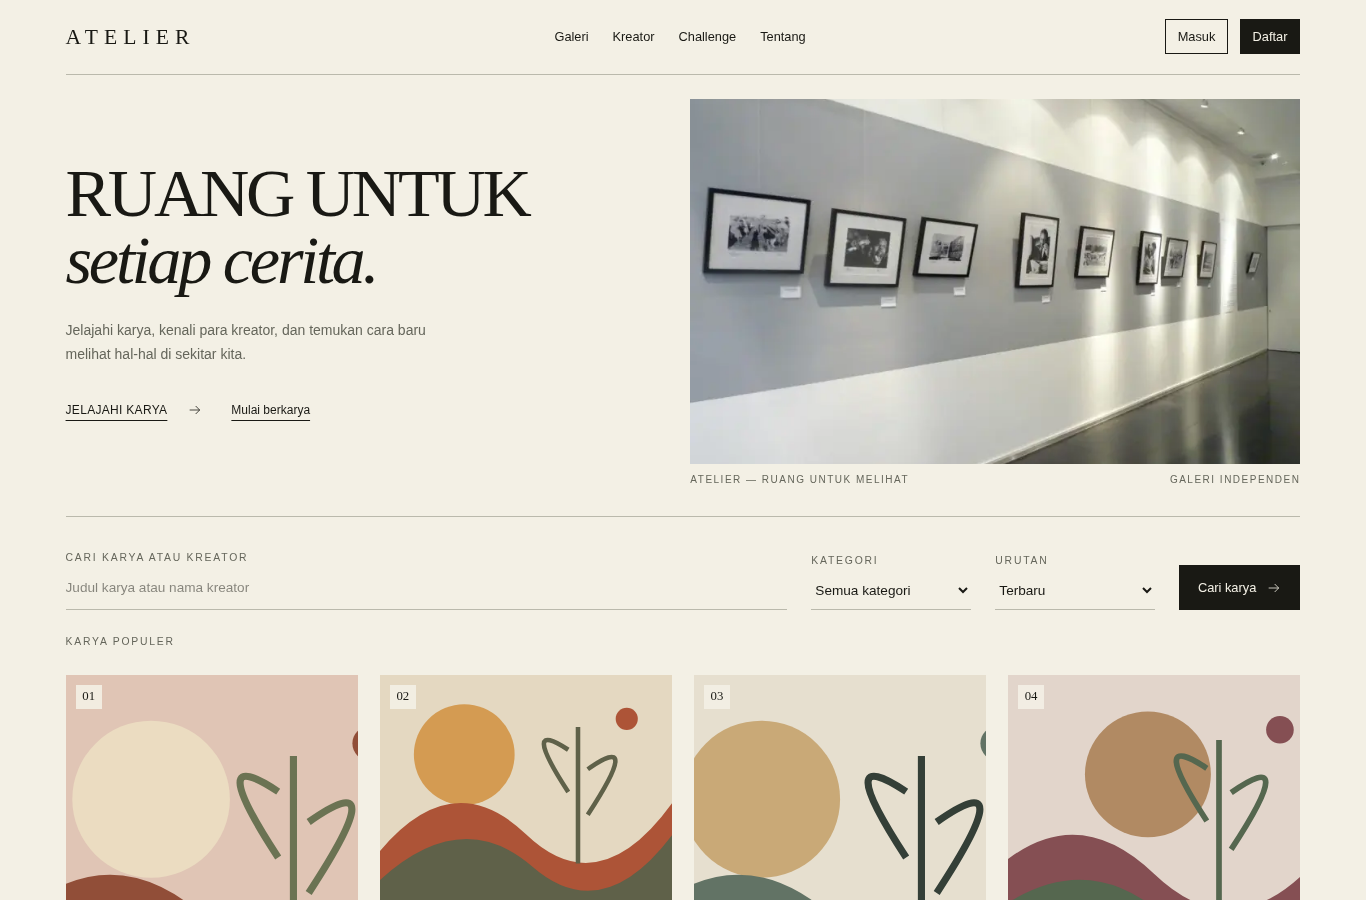
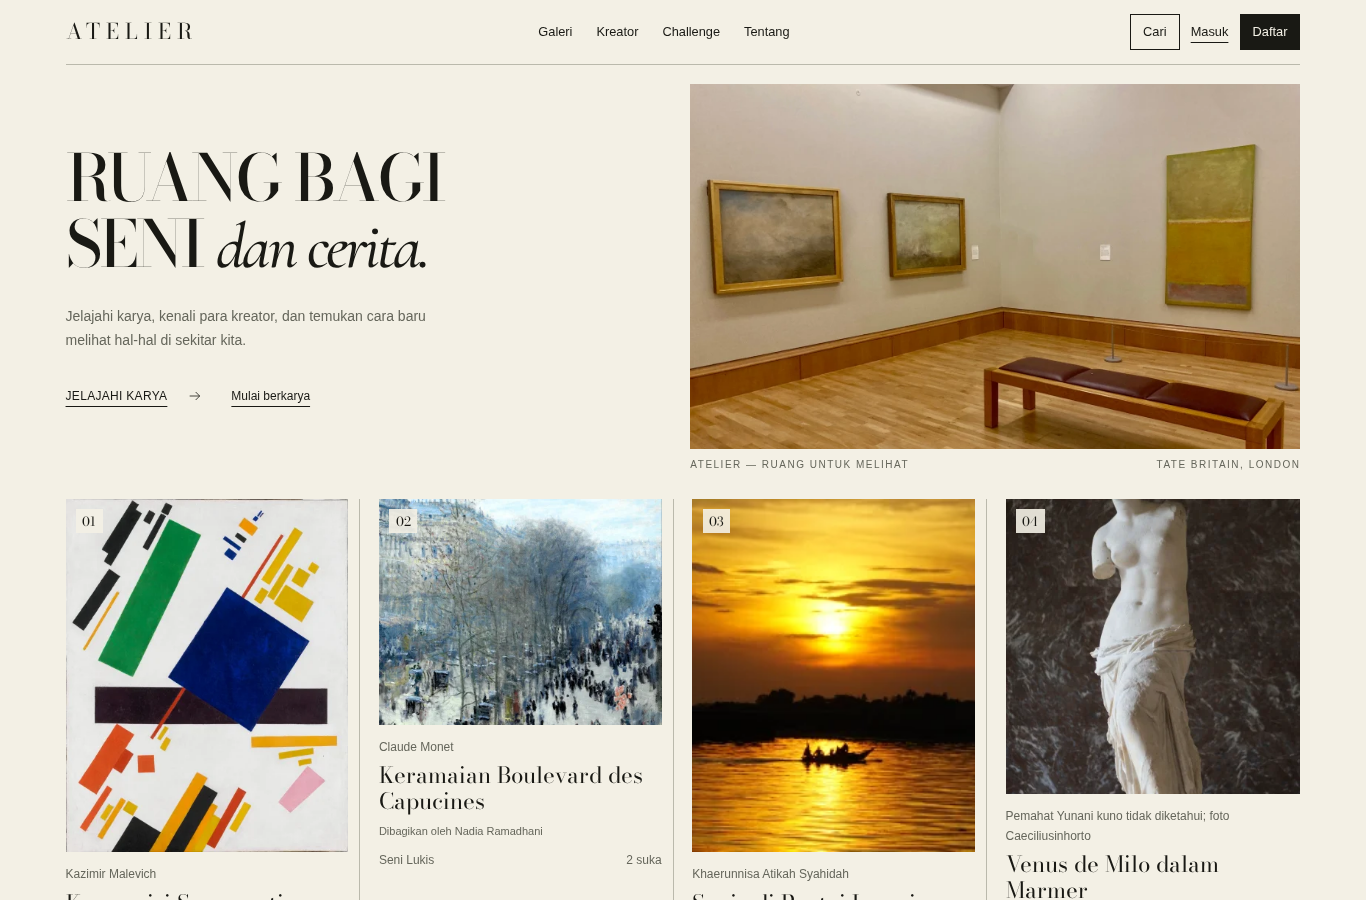
Catat sumber aset, pembaruan lokal, dan verifikasi galeri HD

diff --git a/docs/aset-visual.md b/docs/aset-visual.md
@@ -1,23 +1,44 @@
 # Aset visual Atelier
 
-## Foto pembuka beranda
+Diperbarui 18 November 2026 WITA. Foto dan reproduksi contoh disimpan lokal agar halaman tidak bergantung pada layanan gambar eksternal.
 
-- File lokal: public/images/atelier-gallery.webp.
-- Judul sumber: Sibisi Gallery Interior.
-- Pembuat foto pada Wikimedia Commons: Hibrahubria.
-- Tanggal foto pada metadata sumber: 18 Oktober 2012.
-- Sumber: https://commons.wikimedia.org/wiki/File:Sibisi_Gallery_Interior.webp.
-- Berkas sumber: https://upload.wikimedia.org/wikipedia/commons/7/71/Sibisi_Gallery_Interior.webp.
-- Lisensi yang tercantum pada halaman sumber: Creative Commons Zero (CC0 1.0).
-- Ketentuan lisensi: https://creativecommons.org/publicdomain/zero/1.0/.
-- Metadata sumber diperiksa melalui API Wikimedia Commons pada 18 November 2026 WITA.
+## Foto pembuka
 
-Foto dipakai untuk memperkenalkan suasana galeri pada beranda. Deretan bingkai hitam, dinding netral, dan pencahayaan lembut dipilih agar selaras dengan tampilan krem dan hitam Atelier.
+Foto baru memperlihatkan ruang Tate Britain, dua lukisan berbingkai emas, dan kanvas Rothko berwarna oker. File public/images/atelier-gallery-hd.webp berukuran 2400 × 1600 piksel, berasal dari foto asli 4032 × 3024 piksel. Sumber dan lisensi foto CC0 tercatat di [hero-hd-source.md](hero-hd-source.md). Kredit foto: Jp1008 / Wikimedia Commons.
 
-Versi lokal dipotong dari rasio 4:3 menjadi 3:2, diproses pada ukuran 1200 × 800 piksel, dikompresi ke WebP, dan dibersihkan dari metadata foto. Aplikasi memuat berkas lokal ini sehingga tampilan tidak bergantung pada koneksi ke situs sumber.
+Foto dikompresi ke WebP kualitas 90 dan dipotong ke rasio 3:2 tanpa memperbesar sumber. Beranda memakai next/image dengan kualitas 90 dan ukuran responsif. Foto Sibisi yang dipakai versi sebelumnya tidak lagi menjadi pembuka.
 
-Kredit singkat yang dapat dicantumkan: “Foto galeri: Hibrahubria / Wikimedia Commons, CC0.” CC0 tidak mensyaratkan atribusi; sumber tetap dicatat agar asal gambar mudah ditelusuri.
+## Enam karya contoh
 
-## Karya contoh
+| Judul pada aplikasi | Kategori | Pembuat asli/fotografer | Lisensi | Resolusi lokal | Asal |
+| --- | --- | --- | --- | --- | --- |
+| Keramaian Boulevard des Capucines | Seni Lukis | Claude Monet | [Public domain](https://creativecommons.org/publicdomain/mark/1.0/) | 1631 × 2200 | [Sumber](https://commons.wikimedia.org/wiki/File:Claude_Monet_-_Boulevard_des_Capucines_-_Google_Art_Project.jpg) |
+| Senja di Pantai Losari | Fotografi | Khaerunnisa Atikah Syahidah | [CC BY-SA 4.0](https://creativecommons.org/licenses/by-sa/4.0) | 2200 × 1467 | [Sumber](https://commons.wikimedia.org/wiki/File:Keindahan_sunset_di_pantai_losari.jpg) |
+| Komposisi Suprematis | Seni Lukis | Kazimir Malevich | [Public domain](https://creativecommons.org/publicdomain/mark/1.0/) | 1761 × 2200 | [Sumber](https://commons.wikimedia.org/wiki/File:Suprematist_Composition_-_Kazimir_Malevich.jpg) |
+| Jembatan di Atas Kolam Teratai | Seni Lukis | Claude Monet | [Public domain](https://creativecommons.org/publicdomain/mark/1.0/) | 1759 × 2200 | [Sumber](https://commons.wikimedia.org/wiki/File:The_Water-Lily_Pond_1899_Claude_Monet_Metropolitan.jpg) |
+| Gelombang Besar di Kanagawa | Cetak Grafis | Katsushika Hokusai | [Public domain](https://creativecommons.org/publicdomain/mark/1.0/) | 2200 × 1505 | [Sumber](https://commons.wikimedia.org/wiki/File:Great_Wave_off_Kanagawa2.jpg) |
+| Venus de Milo dalam Marmer | Seni Patung | Pemahat Yunani kuno tidak diketahui; foto Caeciliusinhorto | [CC BY-SA 4.0](https://creativecommons.org/licenses/by-sa/4.0) | 1238 × 2200 | [Sumber](https://commons.wikimedia.org/wiki/File:Venus_de_Milo_front_2023.jpg) |
 
-Ilustrasi pada public/examples tetap menjadi karya contoh yang sudah dipakai seed. Judul, pemilik, kategori, dan jalur berkasnya mengikuti database. Foto pembuka beranda terpisah dari data portofolio anggota.
+Gambar berasal dari sumber beresolusi asli antara 2296 × 2869 dan 8242 × 5640 piksel. Semuanya diperkecil ke panjang maksimal 2200 piksel dan dikompresi sebagai WebP kualitas 88. Komposisi sumber dipertahankan; detail gambar dapat dibuka melalui tautan ukuran penuh. Ukuran berkas berkisar 182 KB sampai 1,55 MB, menyesuaikan detail teksturnya. next/image mengirim pratinjau sesuai ukuran layar, sehingga kartu tidak perlu memuat berkas ukuran penuh.
+
+Data contoh merupakan koleksi referensi seni yang dibagikan akun demonstrasi. Pembuat asli, sumber, lisensi, dan keterangan reproduksi tampil pada halaman detail. Dua foto berlisensi CC BY-SA 4.0 tetap mengikuti lisensi tersebut setelah perubahan ukuran/format; empat reproduksi lukisan/cetak merupakan domain publik. Rekaman metadata lengkap tersedia di public/examples/hd/credits.json.
+
+Judul dan kategori mengikuti isi gambar: boulevard Paris menjadi Seni Lukis, foto Losari menjadi Fotografi, Venus menjadi Seni Patung, dan Hokusai menjadi Cetak Grafis. Tags ikut diperbarui. Banner Warna Kota Kita memakai lukisan kota; Bentuk yang Bercerita memakai komposisi geometris; Hijau di Sekitar Kita memakai taman teratai.
+
+## Font
+
+Huruf tegak memakai Bodoni Moda dan aksen miring memakai Cormorant Garamond Italic. Berkas WOFF2 dan lisensi SIL OFL 1.1 disertakan di public/fonts. Keduanya dimuat melalui next/font/local. Sumber dan varian dicatat di [font-sources.md](font-sources.md).
+
+## Database yang sudah berisi data
+
+Jalankan npm run db:demo dari PowerShell setelah git pull dan npm ci. Skrip menjalankan database/migrations/003-demo-gallery.sql sebagai satu transaksi. Alternatif pgAdmin: buka berkas migrasi melalui ikon folder Query Tool, lalu F5. Akun database harus memiliki hak pemilik tabel, seperti postgres pada konfigurasi praktikum.
+
+Migrasi menargetkan enam baris contoh dengan kecocokan ID, email akun contoh, judul lama, jalur SVG lama, dan tipe media. Karya yang berada di public/uploads, judul yang sudah diganti, serta karya milik akun lain dilewati. Banner hanya diperbarui jika akun Curator, judul, dan jalur contohnya cocok. Akun, suka, komentar, favorit, laporan, submisi, dan pemenang dipertahankan.
+
+Selama pembaruan, transaksi mengunci tabel karya dan menonaktifkan sementara trigger larangan mengganti file. Trigger diaktifkan kembali sebelum COMMIT. Jika ada kesalahan, ROLLBACK memulihkan data dan keadaan trigger. Aplikasi tetap memakai aturan file tidak dapat diganti pada edit karya biasa. Menjalankan migrasi kembali menghasilkan nol pembaruan untuk baris yang sudah diproses.
+
+Untuk instalasi kosong, jalankan schema.sql lalu seed.sql terbaru. Tidak perlu membuat ulang database yang sudah berisi akunmu. Hasil dapat diperiksa dengan database/check-demo-gallery.sql; trigger harus berstatus O (enabled).
+
+## Pengujian
+
+npm run demo:test membuat database uji terpisah, menjalankan schema/seed dua kali, menguji migrasi lama, pengulangan, perlindungan data khusus, serta rollback dan trigger. Database uji dibersihkan setelah selesai. Pengujian ini memerlukan hak CREATEDB pada akun pengembangan.

diff --git a/docs/tampilan-atelier.md b/docs/tampilan-atelier.md
@@ -1,6 +1,6 @@
 # Tampilan Atelier
 
-Desain diperbarui pada 18 November 2026 WITA berdasarkan referensi galeri editorial yang dipilih pengguna. Nama tampilan menjadi Atelier, sedangkan teks antarmuka tetap bahasa Indonesia.
+Desain diperbarui pada 18 November 2026 WITA berdasarkan referensi galeri editorial yang dipilih pengguna. Nama tampilan menjadi Atelier, sedangkan teks antarmuka tetap bahasa Indonesia. Revisi berikutnya memperjelas perpaduan font tegak/miring serta mengganti foto pembuka dan seluruh karya contoh dengan gambar HD yang sesuai judul/kategorinya.
 
 ## Keputusan desain
 
@@ -8,7 +8,7 @@ Latar krem, teks hitam, judul serif, garis tipis, dan bidang persegi memberi rua
 
 Galeri memakai empat kolom pada layar besar dan dua kolom pada layar kecil. Tinggi pratinjau dibuat bervariasi agar susunannya terasa seperti ruang pamer. Halaman detail tetap menampilkan gambar karya secara utuh. Pada HP, bagian pembuka beranda menjadi satu kolom dan pengantar samping login disembunyikan supaya form mudah ditemukan.
 
-Navigasi utama menyediakan Galeri, Kreator, Challenge, dan Tentang. Logo Atelier selalu menuju beranda. Menu akun mengarah ke dashboard sesuai peran/status dan menyediakan tombol keluar. Dashboard, form, halaman detail, loading, error, dan 404 mengikuti gaya yang sama. Merah dipakai untuk pesan error atau tindakan penghapusan.
+Navigasi utama menyediakan Galeri, Kreator, Challenge, dan Tentang. Logo Atelier selalu menuju beranda. Tombol Cari membuka pencarian dan filter pada beranda; hasil pencarian mempertahankan field serta pilihannya. Menu akun mengarah ke dashboard sesuai peran/status dan menyediakan tombol keluar. Dashboard, form, halaman detail, loading, error, dan 404 mengikuti gaya yang sama. Merah dipakai untuk pesan error atau tindakan penghapusan.
 
 ## File utama
 
@@ -22,18 +22,21 @@ Navigasi utama menyediakan Galeri, Kreator, Challenge, dan Tentang. Logo Atelier
 | components/dashboard-nav.js | Menu dashboard serta penanda halaman aktif |
 | components/*form*.js dan components/admin/forms.js | Tampilan field, validasi, tombol, dan status pengiriman |
 | app/(auth), app/dashboard, app/artworks, app/creators, app/challenges | Halaman yang menggunakan komponen bersama |
-| public/images/atelier-gallery.webp | Foto pembuka lokal |
+| public/images/atelier-gallery-hd.webp | Foto pembuka lokal 2400 × 1600 piksel |
+| public/fonts/ | Bodoni Moda, Cormorant Garamond Italic, dan lisensinya |
+| public/examples/hd/ | Enam karya referensi 2200 piksel dan metadata sumber |
+| database/migrations/003-demo-gallery.sql | Pembaruan gambar/metadata contoh pada database lama |
 | docs/aset-visual.md | Sumber, lisensi, dan pengolahan foto |
 
 ## Mengganti tema dan gambar
 
 Warna utama ada pada :root di app/globals.css: --paper untuk latar, --ink untuk teks utama, --muted untuk teks pendamping, dan --line untuk garis. Kelas seperti button-primary, field-input, dan panel membuat form di berbagai peran tetap konsisten. Tailwind dipakai untuk susunan, jarak, ukuran layar, serta variasi komponen. @theme menyelaraskan font dan warna stone dengan palet situs.
 
-Font memakai keluarga sistem agar build dan tampilan tidak bergantung pada pengunduhan font. Link memiliki warna eksplisit. :focus-visible memberi penanda pengguna keyboard, dan prefers-reduced-motion mengurangi animasi bagi pengguna yang membutuhkannya.
+Font judul memakai Bodoni Moda dan aksen miring memakai Cormorant Garamond Italic. Keduanya dimuat lokal melalui next/font/local dan dipakai dalam baris judul yang sama agar perbedaannya terlihat. Font body memakai Arial/sans-serif sistem. Link memiliki warna eksplisit. :focus-visible memberi penanda pengguna keyboard, dan prefers-reduced-motion mengurangi animasi bagi pengguna yang membutuhkannya.
 
 Foto pembuka terpisah dari portofolio pengguna. Untuk menggantinya, sediakan gambar lokal yang boleh dipakai, optimalkan ke WebP, sesuaikan src serta alt di app/page.js, lalu catat sumbernya. File karya pengguna tetap dikelola melalui alur upload yang memvalidasi format, ukuran, dan isi gambar. Mengganti hero tidak mengubah file karya dalam database.
 
-Nama repository, database art_showcase, cookie sesi, issuer JWT, serta email/password akun contoh dipertahankan. Perubahan nama antarmuka tidak perlu mencabut sesi yang sah atau membuat ulang data. Tidak ada perubahan skema maupun migrasi pada tahap tampilan ini.
+Nama repository, database art_showcase, cookie sesi, issuer JWT, serta email/password akun contoh dipertahankan. Perubahan nama antarmuka tidak perlu mencabut sesi yang sah atau membuat ulang data. Struktur tabel tetap; revisi gambar menyertakan migrasi data contoh yang dijalankan dengan npm run db:demo.
 
 ## Mengecek di Windows
 
@@ -42,16 +45,17 @@ Hentikan server lama dengan Ctrl+C, kemudian jalankan di PowerShell dari folder 
 ```powershell
 git pull --ff-only
 npm ci
+npm run db:demo
 npm run lint
 npm run build
 npm run dev
 ```
 
 1. Buka http://localhost:3000. Periksa logo Atelier, foto galeri, karya populer/terbaru, sorotan, kreator, serta challenge.
-2. Coba mencari judul karya atau kreator, memilih kategori, dan mengubah urutan. Buka detail karya, profil, serta challenge.
+2. Klik Cari pada header, lalu cari judul karya atau kreator, pilih kategori, dan ubah urutan. Buka detail karya, profil, serta challenge.
 3. Masuk sebagai Member, Admin, dan Curator untuk memeriksa menu serta form masing-masing. Coba juga Curator Pending/Rejected.
 4. Pada DevTools browser, periksa lebar 320, 390, 768, 1024, dan 1366 piksel. Navigasi harus dapat digunakan, tulisan terbaca, dan halaman tidak bergeser ke samping.
-5. Di pgAdmin, buka database/queries/platform.sql serta database/check-auth.sql melalui ikon folder Query Tool. Perubahan desain tidak membutuhkan schema atau seed ulang.
+5. Di pgAdmin, buka database/check-demo-gallery.sql melalui ikon folder Query Tool. Terlihat enam contoh HD, banner yang sesuai tema, serta trigger berstatus O. Database lama memakai migrasi data contoh; schema atau seed tidak perlu dijalankan ulang.
 
 ## Empat hal untuk dipahami
 

diff --git a/README.md b/README.md
@@ -4,7 +4,20 @@ Proyek final Praktikum Pemrograman Web 2026, Sistem Informasi Universitas Hasanu
 
 Tahap saat ini: **Hari 9 — pengujian dan polesan selesai**. Fitur wajib sampai pemilihan pemenang sudah tersedia. Tahap ini mencakup pengujian sesi/permintaan paralel, pembaruan dependency, pemulihan halaman error, serta desain Atelier dengan gaya galeri editorial. Finalisasi dokumentasi/presentasi dilakukan pada Hari 10.
 
-Nama antarmuka berubah dari Ruang Karya menjadi Atelier. Nama folder repository, database, cookie sesi, dan akun contoh tetap dipakai agar instalasi serta data yang sudah ada terus bekerja. Panduan tema, komponen, dan gambar tersedia di [docs/tampilan-atelier.md](docs/tampilan-atelier.md); sumber foto berlisensi CC0 dicatat di [docs/aset-visual.md](docs/aset-visual.md).
+Nama antarmuka berubah dari Ruang Karya menjadi Atelier. Nama folder repository, database, cookie sesi, dan akun contoh tetap dipakai agar instalasi serta data yang sudah ada terus bekerja. Panduan tema, komponen, dan gambar tersedia di [docs/tampilan-atelier.md](docs/tampilan-atelier.md); sumber foto, karya referensi, serta lisensinya dicatat di [docs/aset-visual.md](docs/aset-visual.md).
+
+Revisi tampilan memakai Bodoni Moda dan Cormorant Garamond Italic, foto galeri 2400 × 1600 piksel, serta enam karya contoh dengan panjang maksimal 2200 piksel. Judul, kategori, tags, dan banner mengikuti gambar yang dipakai. Tombol Cari di header membuka pencarian dan filter.
+
+Untuk memperbarui instalasi yang sudah berjalan, hentikan server dengan Ctrl+C lalu jalankan dari folder proyek di PowerShell:
+
+```powershell
+git pull --ff-only
+npm ci
+npm run db:demo
+npm run dev
+```
+
+db:demo menjalankan migrasi data contoh dalam satu transaksi, mempertahankan karya unggahan serta akun yang sudah ada, dan aman dijalankan ulang. Alternatif pgAdmin: buka database/migrations/003-demo-gallery.sql lalu F5. Jangan menjalankan ulang seed untuk mengganti gambar pada database lama.
 
 ![Pratinjau beranda Atelier di layar laptop](docs/images/atelier-desktop.png)
 
@@ -47,7 +60,7 @@ Pada Query Tool pgAdmin untuk art_showcase, jalankan **database/migrations/002-a
 
 ## Database di pgAdmin
 
-Hari 3–9 tidak menambah tabel atau mengubah skema. Jika database Hari 2 sudah berjalan, cukup perbarui kode; migrasi SQL tambahan tidak diperlukan.
+Hari 3–9 tidak menambah tabel atau mengubah struktur tabel. Revisi gambar menambah migrasi data contoh 003-demo-gallery.sql. Jika database Hari 2 sudah berjalan, perbarui kode lalu jalankan npm run db:demo.
 
 1. Buka server PostgreSQL lokal dan login.
 2. Klik kanan Databases > Create > Database. Nama: art_showcase.
@@ -85,7 +98,7 @@ Semua akun demo memakai password **RuangKarya2026!**, disimpan sebagai hash bcry
 | Curator pending | pending@ruangkarya.test |
 | Curator rejected | rejected@ruangkarya.test |
 
-Data dan identitas contoh bersifat fiktif. Enam SVG merupakan ilustrasi abstrak lokal untuk pengujian, bukan karya portofolio sungguhan. SVG contoh berada di public/examples; ini bukan izin menerima SVG dari unggahan pengguna. Validasi unggahan dibuat Hari 4.
+Identitas akun contoh bersifat fiktif. Enam karya referensi HD berada di public/examples/hd, dengan pembuat asli dan lisensi ditampilkan pada detail serta dicatat di docs/aset-visual.md. Data contoh menyediakan kategori Seni Lukis, Seni Patung, Cetak Grafis, dan Fotografi yang sesuai isi gambar. Unggahan pengguna menerima JPEG/PNG/WebP statis melalui validasi backend.
 
 ## Struktur
 
@@ -140,7 +153,7 @@ npm run dev
 
 npm test menjalankan pengujian token, keamanan sesi, database, autentikasi, Admin, karya, interaksi, moderasi, challenge, dan pemenang. Pengujian memerlukan database pengembangan yang sudah memiliki schema dan seed, membuat data sementara, lalu membersihkannya. Pemeriksaan berhenti ketika satu rangkaian gagal. Untuk hanya menguji perbaikan masa berlaku sesi, gunakan npm run security:test.
 
-Tahap ini tidak memerlukan migrasi atau seed ulang. Di pgAdmin, buka database/check-auth.sql melalui ikon folder Query Tool lalu tekan F5 untuk melihat status akun dan jumlah sesi aktif tanpa menampilkan token atau hash password. Ketika database tidak tersedia, halaman error menyediakan tombol coba lagi yang meminta ulang halaman dari server setelah koneksi pulih.
+Pengujian backend memakai data yang sudah tersedia. Untuk revisi gambar HD, jalankan npm run db:demo sekali; seed ulang tidak diperlukan. Di pgAdmin, buka database/check-auth.sql melalui ikon folder Query Tool lalu tekan F5 untuk melihat status akun dan jumlah sesi aktif tanpa menampilkan token atau hash password. Ketika database tidak tersedia, halaman error menyediakan tombol coba lagi yang meminta ulang halaman dari server setelah koneksi pulih.
 
 ## Mencoba pengumuman pemenang
 

diff --git a/docs/verifikasi-hari-9.md b/docs/verifikasi-hari-9.md
@@ -61,15 +61,25 @@ Pengujian ulang alur browser setelah perubahan desain:
 | Challenge | Lulus: CRUD, zona waktu, role/status, submit/withdraw/deadline, banner, dan paginasi |
 | Pemenang | Lulus: maksimal tiga, kandidat/rank unik, konflik dua tab, pengumuman, featured, submisi privat, dan dampak take down |
 
+## Revisi tipografi dan gambar HD
+
+Revisi lanjutan pada 18 November 2026 WITA memakai Bodoni Moda tegak dan Cormorant Garamond Italic pada baris judul yang sama. Font WOFF2 dilayani lokal dengan lisensi SIL OFL. Foto pembuka diganti versi 2400 × 1600 dari sumber asli 4032 × 3024 piksel. Enam karya referensi memakai WebP dengan panjang maksimal 2200 piksel; judul, kategori, tags, pembuat asli, serta banner mengikuti isi gambar.
+
+npm run demo:test lulus pada database uji terpisah: schema/seed dapat dijalankan dua kali, enam contoh lama berpindah ke gambar baru, pengulangan migrasi tidak mengubah data lagi, serta kategori khusus, judul yang disunting, jalur uploads, pemilik lain, dan banner pribadi dipertahankan. Akun dan relasi interaksi/submisi/pemenang tidak berubah. Kesalahan SQL membatalkan semua perubahan; trigger larangan mengganti file tetap aktif setelah sukses dan rollback.
+
+Pembaruan database pengembangan menghasilkan enam karya dan tiga banner yang diperbarui. Pengulangan menghasilkan nol perubahan. npm test lulus pada sepuluh rangkaian backend setelah data contoh diperbarui. Tes larangan menghapus kategori sekarang memilih kategori yang benar-benar sedang digunakan, sehingga tidak bergantung pada ID kategori lama.
+
+Pada build akhir, 129 pemeriksaan halaman/ukuran layar lulus tanpa overflow horizontal, teks biru, gambar rusak yang terlihat, atau error JavaScript. Font tegak dan miring terverifikasi memakai keluarga berbeda. Tombol Cari membuka filter melalui form GET; pencarian Losari dengan kategori Fotografi menghasilkan foto yang sesuai dan detail menampilkan sumber/lisensi. Gambar moderasi juga diverifikasi pada viewport 390: respons optimizer WebP 200 dan foto berhasil tampil. Lint dan npm run build lulus. Pratinjau laptop/HP pada docs/images diperbarui mengikuti revisi ini.
+
 Hari 9 selesai. Hari 10 untuk finalisasi dokumentasi dan latihan presentasi belum dimulai.
 
 ## Mengecek hasil lokal
 
-1. Perbarui proyek dengan git pull --ff-only, jalankan npm ci, kemudian npm test dan npm run build. Tidak ada perubahan skema atau migrasi baru.
+1. Perbarui proyek dengan git pull --ff-only, jalankan npm ci dan npm run db:demo, kemudian npm test dan npm run build. Struktur tabel tetap; revisi HD memakai migrasi data 003-demo-gallery.sql.
 2. Jalankan npm run dev. Masuk, buka dashboard sesuai peran, lalu keluar. Salinan sesi yang dicabut harus ditolak oleh backend.
 3. Daftarkan Curator percobaan, tolak melalui Admin, lalu coba konfirmasi penghapusan dengan password salah. Akun tetap ada; password benar dan konfirmasi HAPUS diperlukan untuk menghapusnya.
 4. Untuk memeriksa error, gunakan database pengembangan tersendiri. Ketika koneksi tidak tersedia, halaman harus menampilkan pesan yang rapi. Pulihkan koneksi, kemudian gunakan tombol coba lagi.
-5. Di pgAdmin: pilih art_showcase > Query Tool > ikon folder > buka database/check-auth.sql > F5. Hasil menampilkan status akun dan sesi aktif. Jangan mengetik nama file sebagai perintah SQL.
+5. Di pgAdmin: pilih art_showcase > Query Tool > ikon folder > buka database/check-demo-gallery.sql > F5. Terlihat judul, kategori, tags, jalur gambar, banner, serta trigger yang aktif. database/check-auth.sql tetap dapat dipakai untuk sesi. Jangan mengetik nama file sebagai perintah SQL.
 
 ## Hal yang perlu dipahami
 

diff --git a/docs/font-sources.md b/docs/font-sources.md
@@ -1,0 +1,33 @@
+# Font Atelier
+
+Font judul diperbarui pada 18 November 2026 WITA untuk memperjelas perbedaan antara huruf tegak dan aksen miring pada bagian pembuka. Kedua keluarga font disimpan lokal dalam format WOFF2, sehingga tampilan dan build tidak memerlukan koneksi ke Google Fonts.
+
+## Bodoni Moda
+
+- Pemakaian: huruf serif tegak dengan kontras batang tebal/tipis yang jelas.
+- Berkas: public/fonts/bodoni-moda.woff2, 74.592 byte.
+- Varian: normal, bobot variabel 400–900, ukuran optis 6–96.
+- Sumber: https://github.com/google/fonts/blob/main/ofl/bodonimoda/BodoniModa%5Bopsz%2Cwght%5D.ttf.
+- SHA blob sumber GitHub: c5d582f8003ae692761dd8e9ce69de23cb9fea53.
+- Pembuat yang tercantum dalam lisensi: The Bodoni Moda Project Authors, 2020.
+- Lisensi: SIL Open Font License 1.1, salinan lengkap di public/fonts/bodoni-moda-OFL.txt.
+- Sumber lisensi: https://github.com/google/fonts/blob/main/ofl/bodonimoda/OFL.txt.
+
+## Cormorant Garamond Italic
+
+- Pemakaian: kata pilihan dengan bentuk miring yang lebih mengalir dan berbeda dari huruf tegak Bodoni Moda.
+- Berkas: public/fonts/cormorant-garamond-italic.woff2, 143.748 byte.
+- Varian: italic asli, bobot variabel 300–700. Bentuk miring berasal dari berkas font tersendiri.
+- Sumber: https://github.com/google/fonts/blob/main/ofl/cormorantgaramond/CormorantGaramond-Italic%5Bwght%5D.ttf.
+- SHA blob sumber GitHub: 0d914e7663b7a1429d06ec60a5c5bb026031a2ef.
+- Pembuat yang tercantum dalam lisensi: the Cormorant Project Authors, 2015.
+- Lisensi: SIL Open Font License 1.1, salinan lengkap di public/fonts/cormorant-garamond-italic-OFL.txt.
+- Sumber lisensi: https://github.com/google/fonts/blob/main/ofl/cormorantgaramond/OFL.txt.
+
+## Pengolahan dan penggunaan
+
+Berkas TTF asli diperoleh dari repository Google Fonts, lalu dikonversi ke WOFF2 menggunakan fontTools dan Brotli. Konversi hanya mengubah kemasan/kompresi; kontur huruf, karakter, serta sumbu variabel dipertahankan. Kedua berkas hasil dapat dibaca ulang dan memiliki seluruh karakter ASCII cetak. Total ukuran font adalah 218.340 byte, sekitar 213 KiB.
+
+Integrasi menggunakan next/font/local. Atur style normal untuk Bodoni Moda dan italic untuk Cormorant Garamond, lalu gunakan variabel font terpisah. Bobot 400 untuk judul tegak dan 500 untuk kata aksen menjaga kontras serta keterbacaan. Font sans serif antarmuka tetap dapat memakai keluarga sistem.
+
+Font dapat digunakan dan didistribusikan bersama proyek sesuai ketentuan SIL OFL 1.1. Salinan lisensi tetap disertakan ketika membagikan font bersama kode proyek. Tidak ada font yang diambil dari gambar referensi.

diff --git a/docs/hero-hd-source.md b/docs/hero-hd-source.md
@@ -1,0 +1,31 @@
+# Sumber foto hero HD
+
+## Berkas yang disiapkan
+
+- Lokasi: public/images/atelier-gallery-hd.webp.
+- Ukuran hasil: 2400 × 1600 piksel, rasio 3:2.
+- Ukuran berkas: 560.250 byte, sekitar 547 KiB.
+- Format: WebP, kualitas 90.
+- Sumber asli: 4032 × 3024 piksel, JPEG 4.146.610 byte.
+- Proses: memotong bagian atas/bawah dari rasio 4:3 ke 3:2, memperkecil gambar, dan membuang metadata foto. Tidak ada pembesaran piksel atau penajaman buatan.
+
+## Asal dan lisensi
+
+- Judul sumber: Rothko painting in Turner gallery Tate Britain.
+- Pembuat foto yang tercatat: Jp1008.
+- Tanggal pengambilan pada metadata sumber: 2 Agustus 2026.
+- Halaman sumber: https://commons.wikimedia.org/wiki/File:Rothko_painting_in_Turner_gallery_Tate_Britain.jpg.
+- Berkas asli: https://upload.wikimedia.org/wikipedia/commons/a/ad/Rothko_painting_in_Turner_gallery_Tate_Britain.jpg.
+- Lisensi foto yang tercantum pada halaman sumber dan metadata API: CC0 1.0, Creative Commons Zero.
+- Halaman lisensi: https://creativecommons.org/publicdomain/zero/1.0/.
+- Pemeriksaan metadata: 18 November 2026 WITA.
+
+Kredit singkat: “Foto galeri: Jp1008 / Wikimedia Commons, CC0.” Metadata sumber tidak mensyaratkan atribusi untuk foto; asal gambar tetap dicatat supaya mudah ditelusuri.
+
+## Isi gambar dan teks alternatif
+
+Foto memperlihatkan sudut ruang Tate Britain dengan dinding krem, lantai dan bangku kayu, dua lukisan Turner berbingkai emas, serta satu kanvas abstrak Rothko dalam warna oker. Foto tidak menampilkan pengunjung atau patung.
+
+Teks alternatif: “Ruang galeri Tate Britain dengan lukisan berbingkai emas dan kanvas abstrak berwarna oker.”
+
+Foto dipilih karena palet hangat dan komposisi ruangnya mendekati referensi Atelier. Karya asli dalam foto tetap memiliki identitas masing-masing; foto digunakan sebagai ilustrasi suasana galeri pada bagian pembuka beranda.
